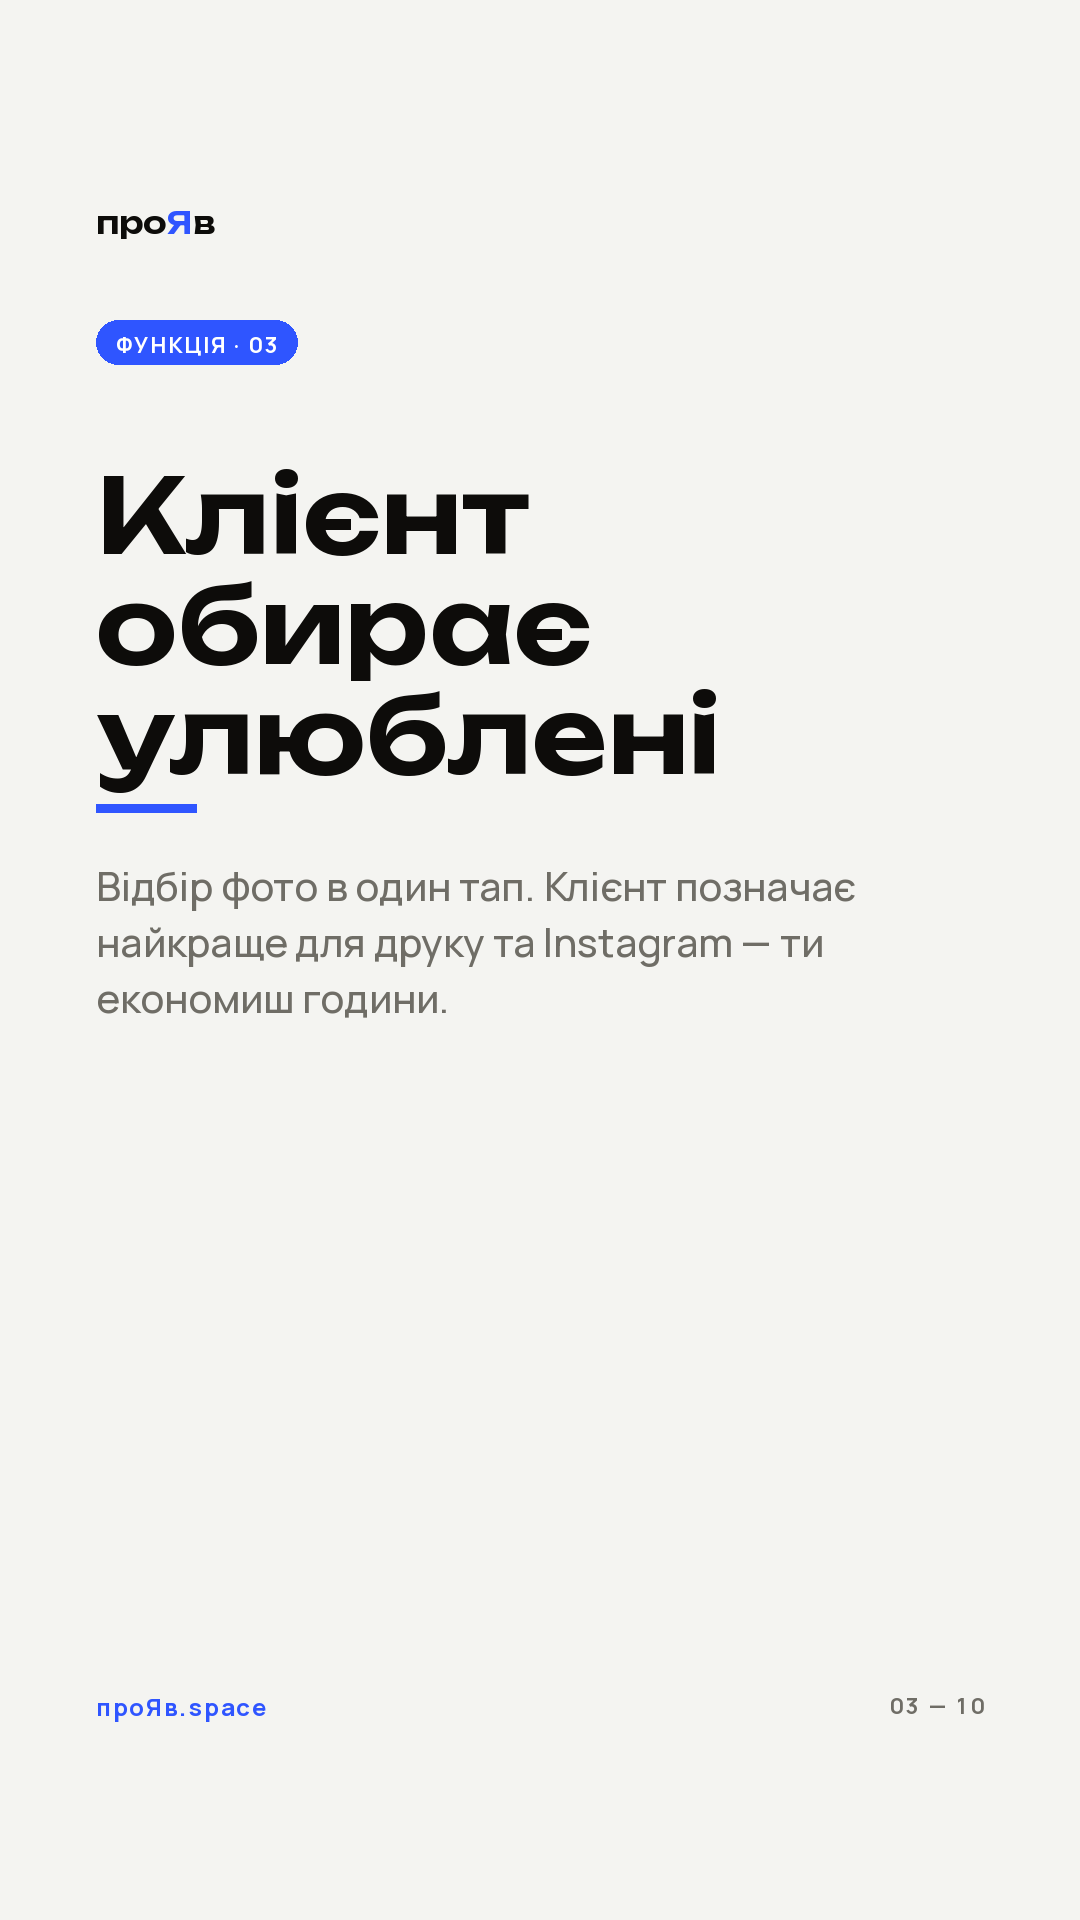
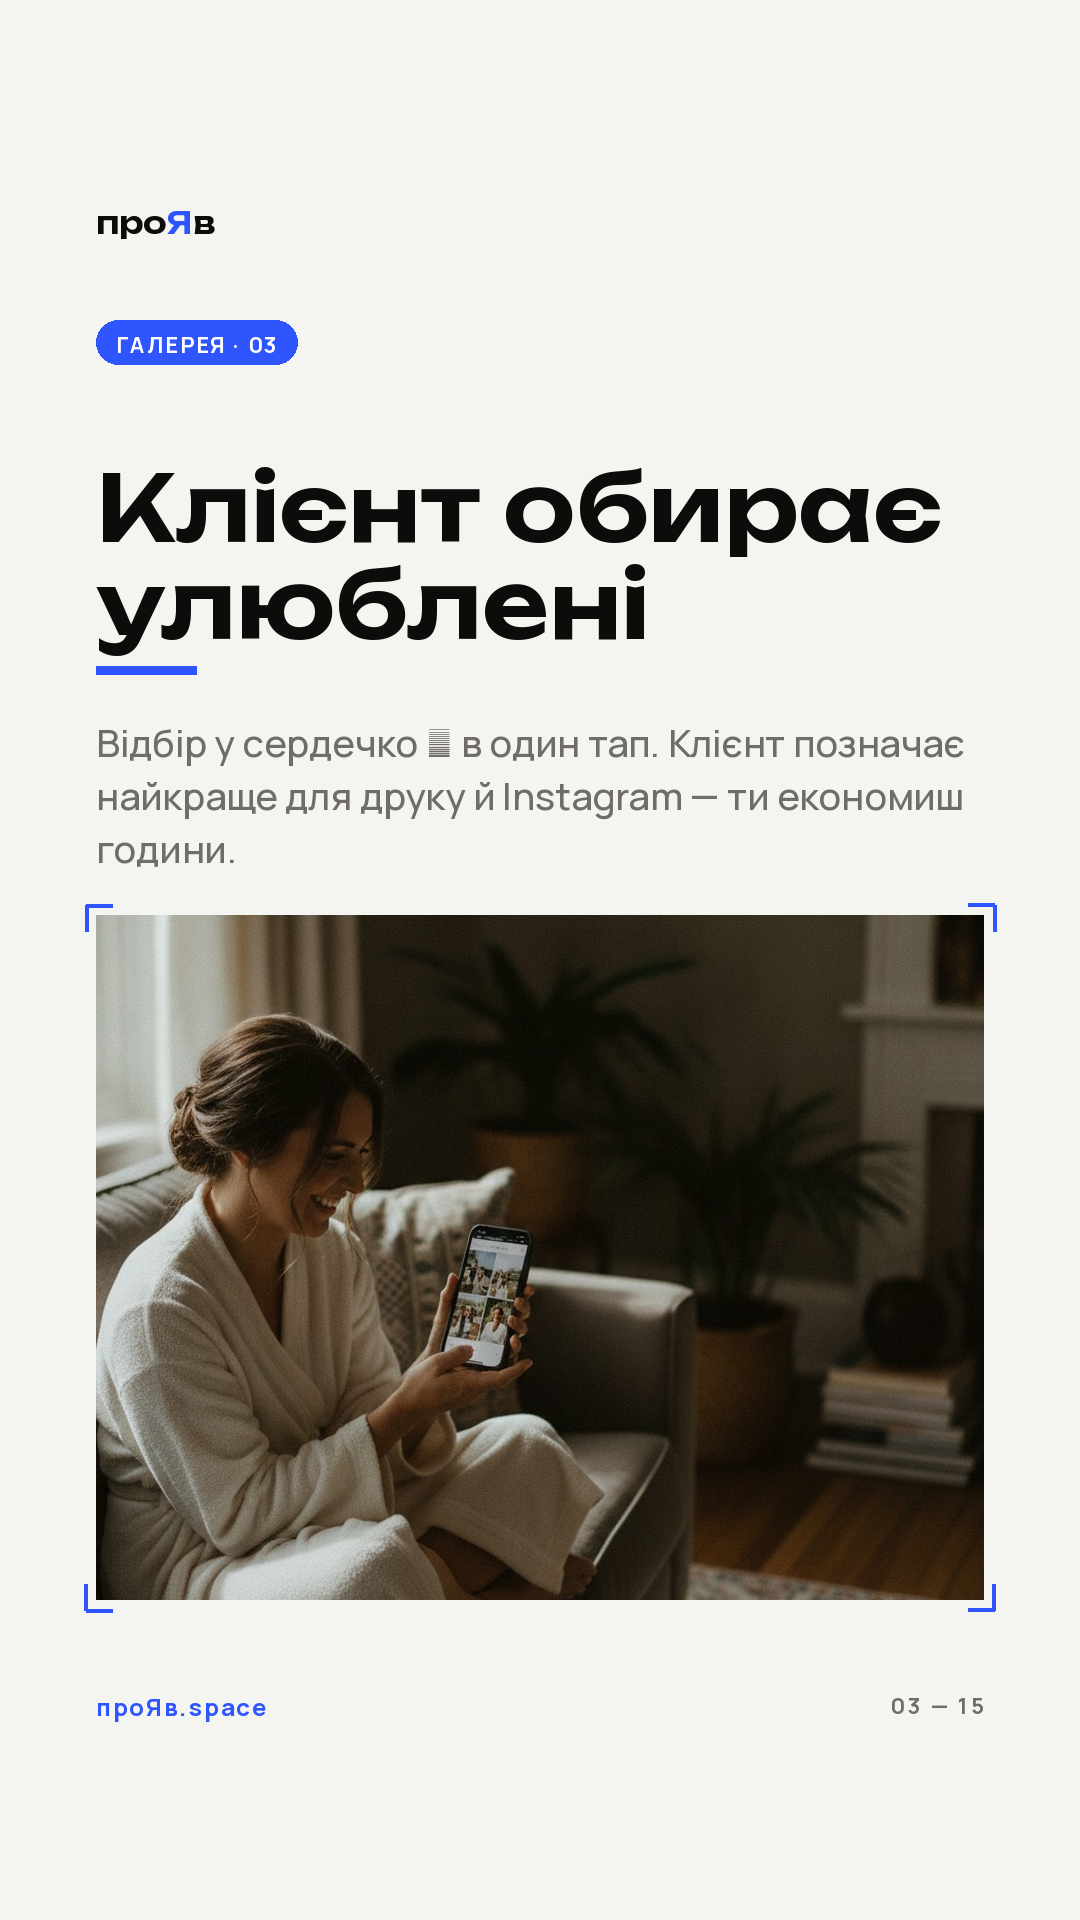
Stories highlight v2: price first, all real features, site photos
- price frame right after cover, with the REAL tiers from proiavspace
  src/lib/plans.ts (3 GB free / Базовий 79 / Плюс 319 / Максимальний 559)
- 12 feature frames covering the full feature set incl. multilingual UI,
  stats, video+slideshow, direct-to-card payments, referral 10%
- feature frames can carry a site photo band (framed, safe-zone aware)

diff --git a/config.py b/config.py
@@ -161,42 +161,67 @@ STORY_SIZE = (1080, 1920)
 STORIES = [
     {
         "id": "HL_GALEREYA",
-        "title": "проЯв — галерея",          # highlight name (шапка)
+        "title": "проЯв — усе про сервіс",   # highlight name (шапка)
         "frames": [
             {"type": "cover"},
-            {"type": "feature", "kick": "ЩО ЦЕ",
-             "head": "Онлайн-галерея *замість* архіву в Drive",
-             "body": "Клієнт відкриває красиву сторінку з обкладинкою на весь екран — а не список файлів."},
-            {"type": "feature", "kick": "ФУНКЦІЯ",
-             "head": "*Дизайн-студія*",
-             "body": "Обери тему, шрифт, обкладинку й розкладку. Галерея виглядає у твоєму стилі, а не шаблонно."},
-            {"type": "feature", "kick": "ФУНКЦІЯ",
-             "head": "Клієнт *обирає* улюблені",
-             "body": "Відбір фото в один тап. Клієнт позначає найкраще для друку та Instagram — ти економиш години."},
-            {"type": "feature", "kick": "ФУНКЦІЯ",
-             "head": "*Завантаження* у повному розмірі",
-             "body": "Клієнт качає фото коли зручно, у потрібному розмірі — без zip і згаслих посилань."},
-            {"type": "feature", "kick": "ФУНКЦІЯ",
-             "head": "*Паролі* та приватність",
-             "body": "Галерея відкривається лише тому, кому ти дозволиш. Приватні зйомки лишаються приватними."},
-            {"type": "feature", "kick": "ФУНКЦІЯ",
-             "head": "Твій *бренд*",
-             "body": "Твоє ім'я, кольори й домен. Клієнт бачить тебе, а не логотип Google."},
-            {"type": "feature", "kick": "ФУНКЦІЯ",
-             "head": "*Бронювання* зйомок",
-             "body": "Приймай заявки на зйомку прямо в проЯв — усе в одному місці."},
+            # ціна спершу — одразу після обкладинки
             {"type": "price"},
+            {"type": "feature", "kick": "ЩО ЦЕ",
+             "head": "Галерея *замість* архіву в Drive",
+             "body": "Клієнт відкриває красиву сторінку зі зйомкою за посиланням — а не список файлів у папці.",
+             "photo": "gallery-hero.jpg"},
+            {"type": "feature", "kick": "ГАЛЕРЕЯ",
+             "head": "Клієнт *обирає* улюблені",
+             "body": "Відбір у сердечко ♥ в один тап. Клієнт позначає найкраще для друку й Instagram — ти економиш години.",
+             "photo": "gallery-beautiful.jpg"},
+            {"type": "feature", "kick": "ГАЛЕРЕЯ",
+             "head": "*Пароль* і термін дії",
+             "body": "Галерея відкривається лише тому, кому ти дозволиш. Постав пароль і дату, до якої вона активна."},
+            {"type": "feature", "kick": "ГАЛЕРЕЯ",
+             "head": "*Завантаження* без втрат",
+             "body": "Zip-архів одним кліком, оригінали зберігаються байт у байт — без стискання і згаслих посилань."},
+            {"type": "feature", "kick": "ГАЛЕРЕЯ",
+             "head": "*Відео* та слайдшоу",
+             "body": "Додавай відео просто в галерею, показуй зйомку на весь екран у режимі слайдшоу.",
+             "photo": "photo_2.jpg"},
+            {"type": "feature", "kick": "АНАЛІТИКА",
+             "head": "*Статистика* переглядів",
+             "body": "Бачиш, що клієнт відкрив галерею, які фото дивився й що завантажив. Жодних здогадок."},
+            {"type": "feature", "kick": "ДИЗАЙН",
+             "head": "*Дизайн-студія*",
+             "body": "Обери тему, шрифт, обкладинку й розкладку фото. Галерея виглядає у твоєму стилі, а не шаблонно.",
+             "photo": "site-proyav.jpg"},
+            {"type": "feature", "kick": "МОВИ",
+             "head": "*Мультимовність*",
+             "body": "Інтерфейс і галерея — українською та англійською. Іноземний клієнт усе зрозуміє."},
+            {"type": "feature", "kick": "БРЕНД",
+             "head": "Твій *бренд*, не Google",
+             "body": "Твоє ім'я, кольори й власний домен із SSL. На платних тарифах проЯв ніде не згадується — біле лейблування.",
+             "photo": "photo-photographer.jpg"},
+            {"type": "feature", "kick": "БРОНЮВАННЯ",
+             "head": "*Бронювання* зйомок",
+             "body": "Клієнт сам обирає вільний слот і одразу оплачує. Синхронізація з Google Calendar."},
+            {"type": "feature", "kick": "ОПЛАТА",
+             "head": "Гроші — одразу *тобі*",
+             "body": "Оплата напряму на твою картку: Monobank, WayForPay, банка чи реквізити. Платформа не торкається грошей."},
+            {"type": "feature", "kick": "БОНУС",
+             "head": "*10%* за друга",
+             "body": "Реферальна програма: 10% кредитом з кожної оплати колеги, якого ти запросила."},
             {"type": "cta"},
         ],
     },
 ]
 
-# Highlight price frame copy (single source of truth).
-PRICE_EYEBROW = "ЦІНА"
-PRICE_FREE    = "Старт — безкоштовно"
-PRICE_MAIN    = "100 ГБ"
-PRICE_SUB     = "79 грн / місяць"
-PRICE_NOTE    = "Без прихованих платежів. Рости, коли готова."
+# Highlight price frame — real проЯв tiers (single source of truth).
+PRICE_EYEBROW = "ЦІНА · ГРИВНІ"
+PRICE_FREE_BIG = "3 ГБ"
+PRICE_FREE_SUB = "безкоштовно назавжди · необмежені галереї"
+PRICE_TIERS = [
+    ("Базовий", "79 грн", "100 ГБ · свій бренд"),
+    ("Плюс", "319 грн", "500 ГБ · відео, статистика"),
+    ("Максимальний", "559 грн", "1 ТБ · пріоритетна підтримка"),
+]
+PRICE_NOTE = "Без картки при реєстрації. Оплата в гривні."
 
 
 # --- Gemini photo prompts (generate_photos.py) -----------------------------

diff --git a/stories.py b/stories.py
@@ -75,29 +75,44 @@ def frame_cover(story, out_path):
     return out_path
 
 
+PHOTO_DIR = os.path.join("input", "photos")
+
+
 def frame_feature(story, fr, idx, total, out_path):
-    """Paper feature frame: eyebrow pill, accented headline, body, rule."""
+    """Paper feature frame: eyebrow pill, accented headline, body, and — when a
+    `photo` is given — a framed image band from the проЯв site at the bottom."""
     img = Image.new("RGB", (W, H), PAPER)
     d = ImageDraw.Draw(img)
     maxw = W - MARGIN * 2
+    photo = fr.get("photo")
+    has_photo = bool(photo and os.path.exists(os.path.join(PHOTO_DIR, photo)))
     # eyebrow pill
     label = f"{fr.get('kick', 'ФУНКЦІЯ')} · {idx:02d}"
-    R.tracked(d, MARGIN, TOP_SAFE + 30, "", R.body(1, 700), INK)  # noop keep spacing
     R._pill(d, MARGIN, TOP_SAFE + 20, label, R.body(22, 700), ACC, WHITE, tr=2)
-    # headline (accent word in cobalt)
-    hf, hlines = R._fit_tokens(d, R._tokens(fr["head"]), maxw, start=104, min_size=58, max_lines=4)
+    # headline (accent word in cobalt) — a touch smaller when a photo shares the frame
+    hstart = 92 if has_photo else 104
+    hmax_lines = 3 if has_photo else 4
+    hf, hlines = R._fit_tokens(d, R._tokens(fr["head"]), maxw, start=hstart, min_size=54, max_lines=hmax_lines)
     hlh = int(hf.size * 1.06)
     y = TOP_SAFE + 150
     y = R._draw_tokens(d, MARGIN, y, hlines, hf, INK, ACC, hlh)
     # rule
-    y += 24
+    y += 22
     d.rectangle([MARGIN, y, MARGIN + 100, y + 8], fill=ACC)
-    y += 54
+    y += 50
     # body
-    bf = R.body(40, 500)
+    bf = R.body(38, 500)
     for l in R.wrap(d, fr["body"], bf, maxw):
         d.text((MARGIN, y), l, font=bf, fill=MUT_L)
         y += int(bf.size * 1.42)
+    # photo band from the site, filling the space down to the safe zone
+    if has_photo:
+        band_top = max(y + 40, H - 300 - 720)
+        ph = BOT_SAFE - band_top - 20
+        if ph > 300:
+            pth = os.path.join(PHOTO_DIR, photo)
+            img.paste(R._photo(pth, maxw, ph, seed=idx, mono=False), (MARGIN, band_top))
+            R._frame(d, (MARGIN - 10, band_top - 10, MARGIN + maxw + 10, band_top + ph + 10))
     _footer(d, dark=False, index=f"{idx:02d} — {total:02d}")
     os.makedirs(os.path.dirname(out_path), exist_ok=True)
     img.save(out_path, "PNG")
@@ -105,26 +120,35 @@ def frame_feature(story, fr, idx, total, out_path):
 
 
 def frame_price(story, idx, total, out_path):
-    """Coal price frame — the offer, big and clean."""
+    """Coal price frame — free tier headline + the real tier ladder."""
     img = Image.new("RGB", (W, H), COAL)
     d = ImageDraw.Draw(img)
     maxw = W - MARGIN * 2
     R._pill(d, MARGIN, TOP_SAFE + 20, C.PRICE_EYEBROW, R.body(22, 700), ACC_D, COAL, tr=3)
-    y = TOP_SAFE + 150
-    d.text((MARGIN, y), C.PRICE_FREE, font=R.disp(64, 600), fill=PAPER)
-    y += 150
-    R.tracked(d, MARGIN, y, "далі", R.body(30, 600), MUT_D, tr=2)
-    y += 66
-    # big number
-    d.text((MARGIN, y), C.PRICE_MAIN, font=R.disp(150, 700), fill=PAPER)
-    y += 190
-    d.text((MARGIN, y), C.PRICE_SUB, font=R.disp(60, 600), fill=ACC_D)
-    y += 96
-    d.rectangle([MARGIN, y, MARGIN + 100, y + 8], fill=ACC_D)
+    y = TOP_SAFE + 140
+    # free tier — the hero number
+    d.text((MARGIN, y), C.PRICE_FREE_BIG, font=R.disp(150, 700), fill=PAPER)
+    y += 178
+    for l in R.wrap(d, C.PRICE_FREE_SUB, R.body(34, 500), maxw):
+        d.text((MARGIN, y), l, font=R.body(34, 500), fill=ACC_D)
+        y += 46
+    y += 34
+    d.rectangle([MARGIN, y, W - MARGIN, y + 2], fill="#2A2824")
     y += 44
-    for l in R.wrap(d, C.PRICE_NOTE, R.body(34, 500), maxw - 120):
-        d.text((MARGIN, y), l, font=R.body(34, 500), fill=SOFT)
+    # tier ladder
+    nf = R.disp(40, 600)
+    for name, price, note in C.PRICE_TIERS:
+        d.text((MARGIN, y), name, font=R.body(34, 700), fill=PAPER)
+        R.tracked(d, W - MARGIN, y - 4, price, nf, ACC_D, anchor="ra")
         y += 48
+        for l in R.wrap(d, note, R.body(29, 500), maxw):
+            d.text((MARGIN, y), l, font=R.body(29, 500), fill=MUT_D)
+            y += 40
+        y += 30
+    # note
+    for l in R.wrap(d, C.PRICE_NOTE, R.body(30, 500), maxw):
+        d.text((MARGIN, y), l, font=R.body(30, 500), fill=SOFT)
+        y += 42
     _footer(d, dark=True, index=f"{idx:02d} — {total:02d}")
     os.makedirs(os.path.dirname(out_path), exist_ok=True)
     img.save(out_path, "PNG")
